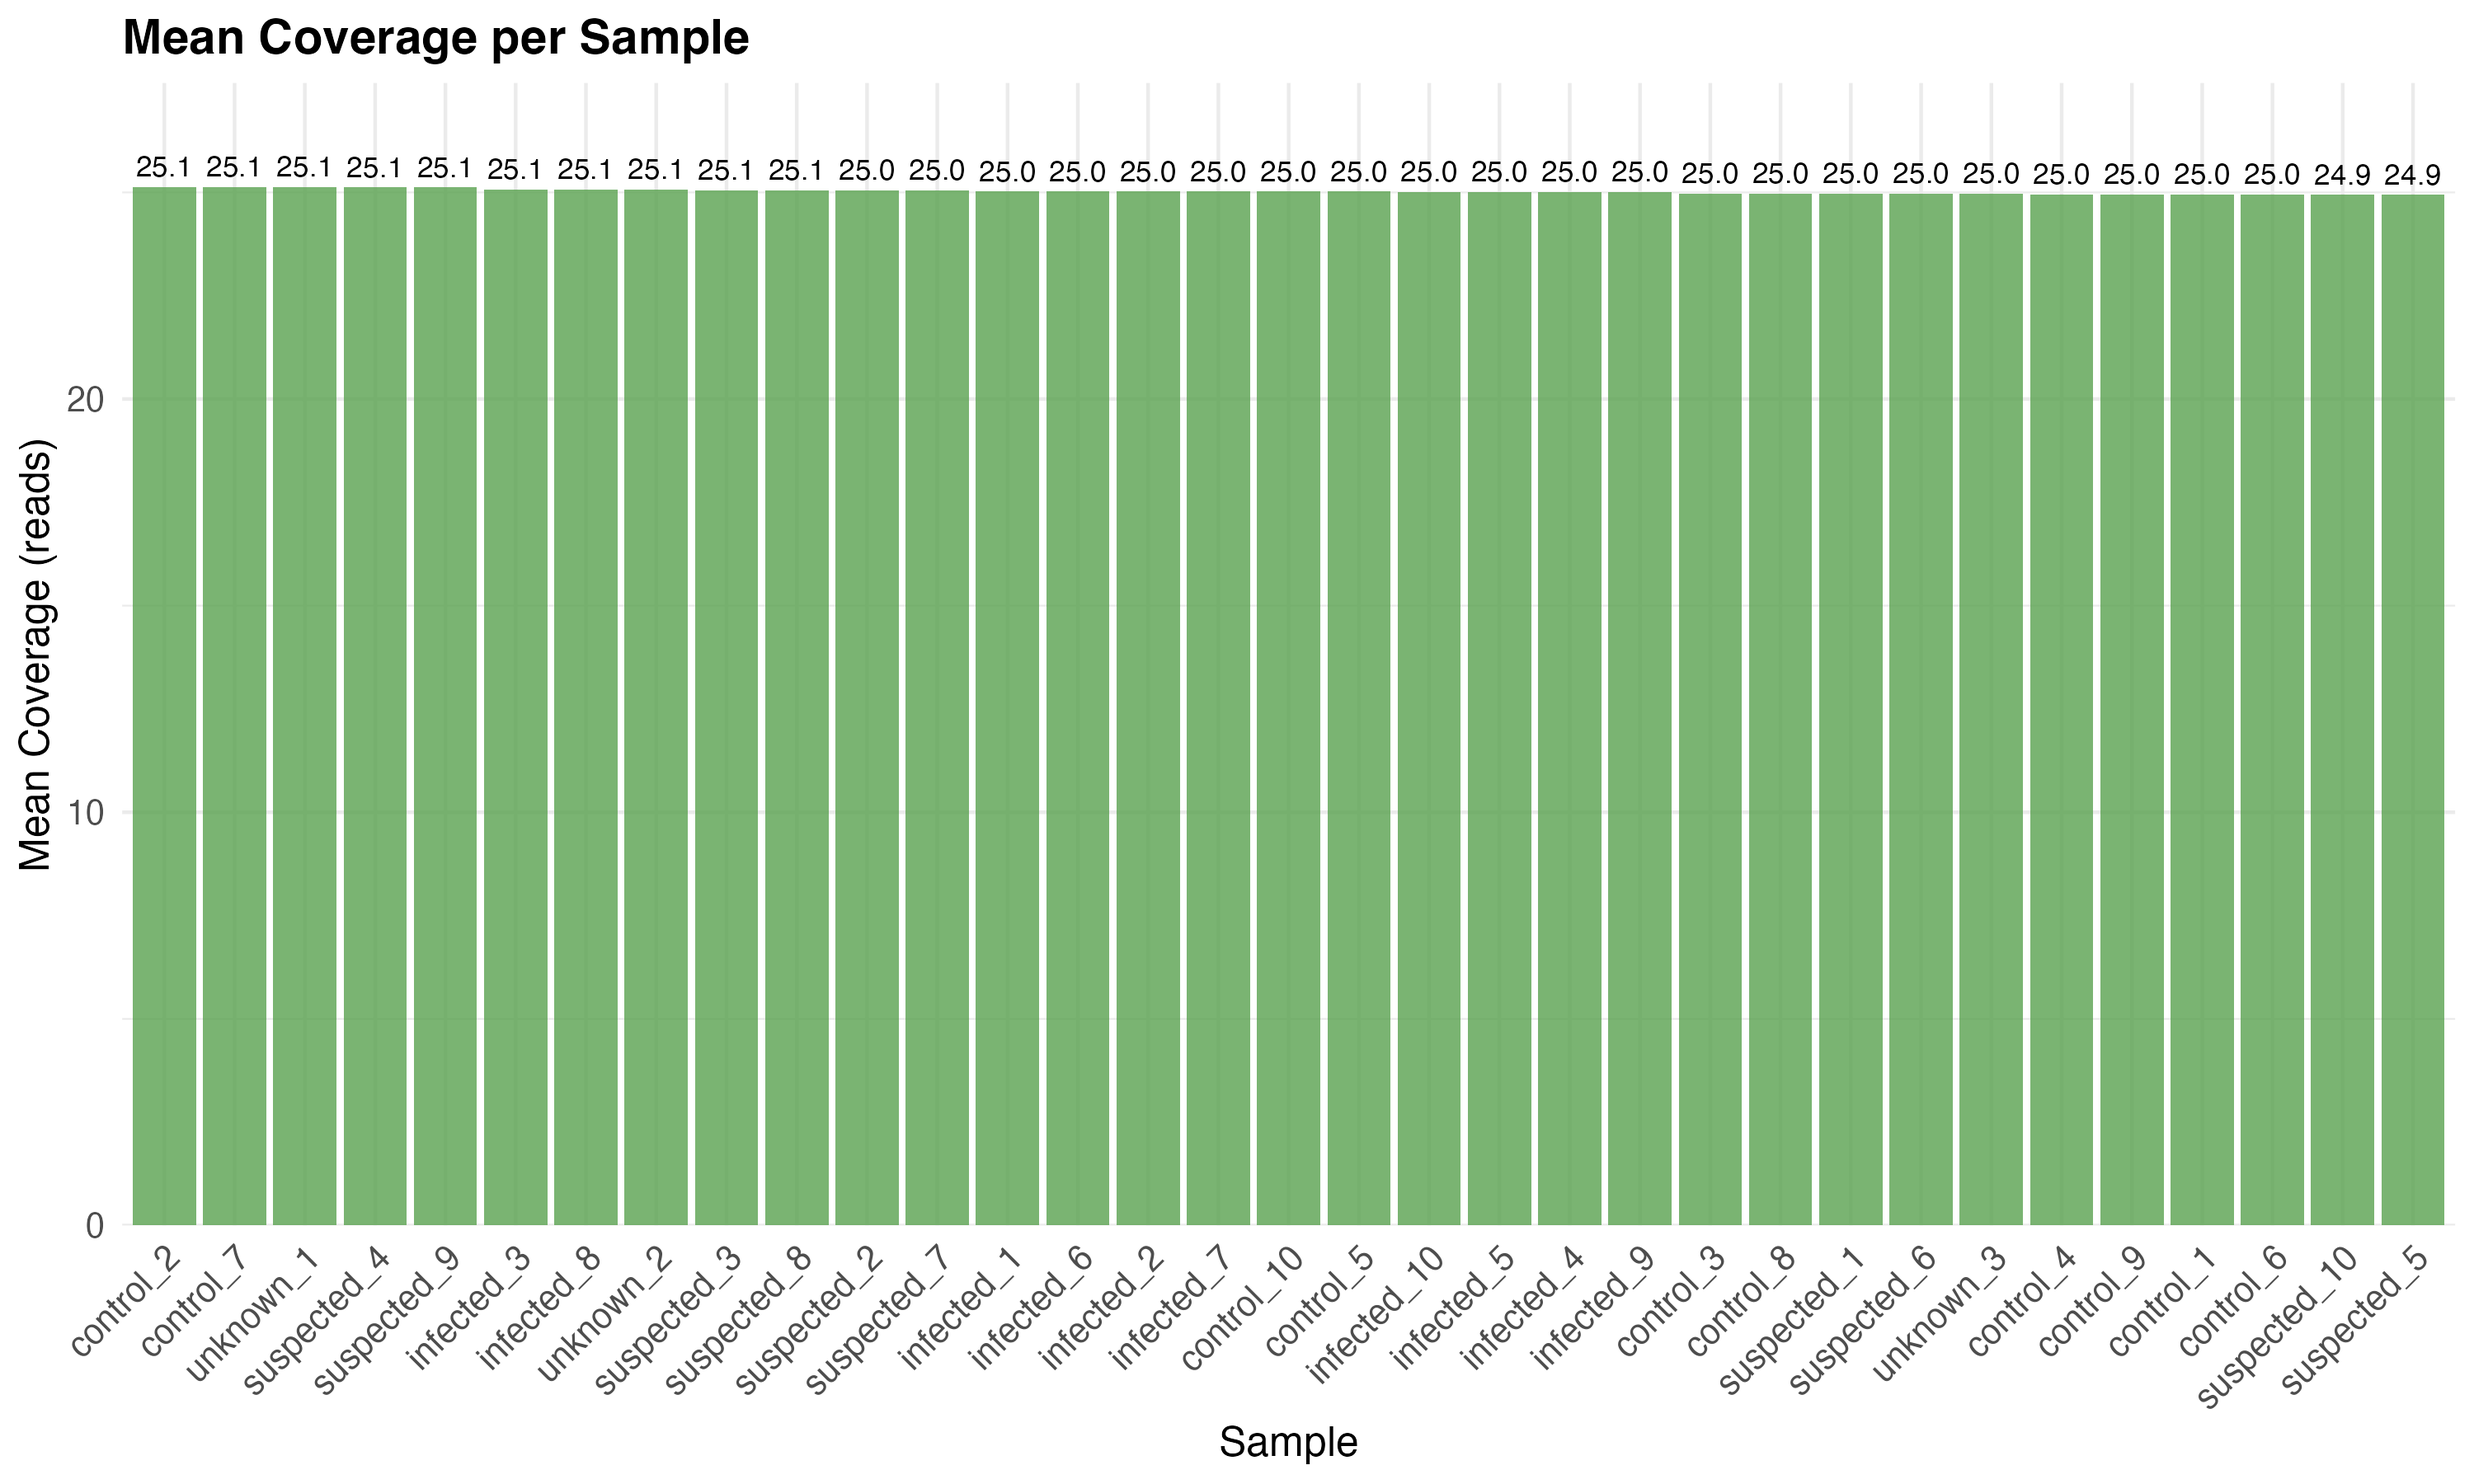
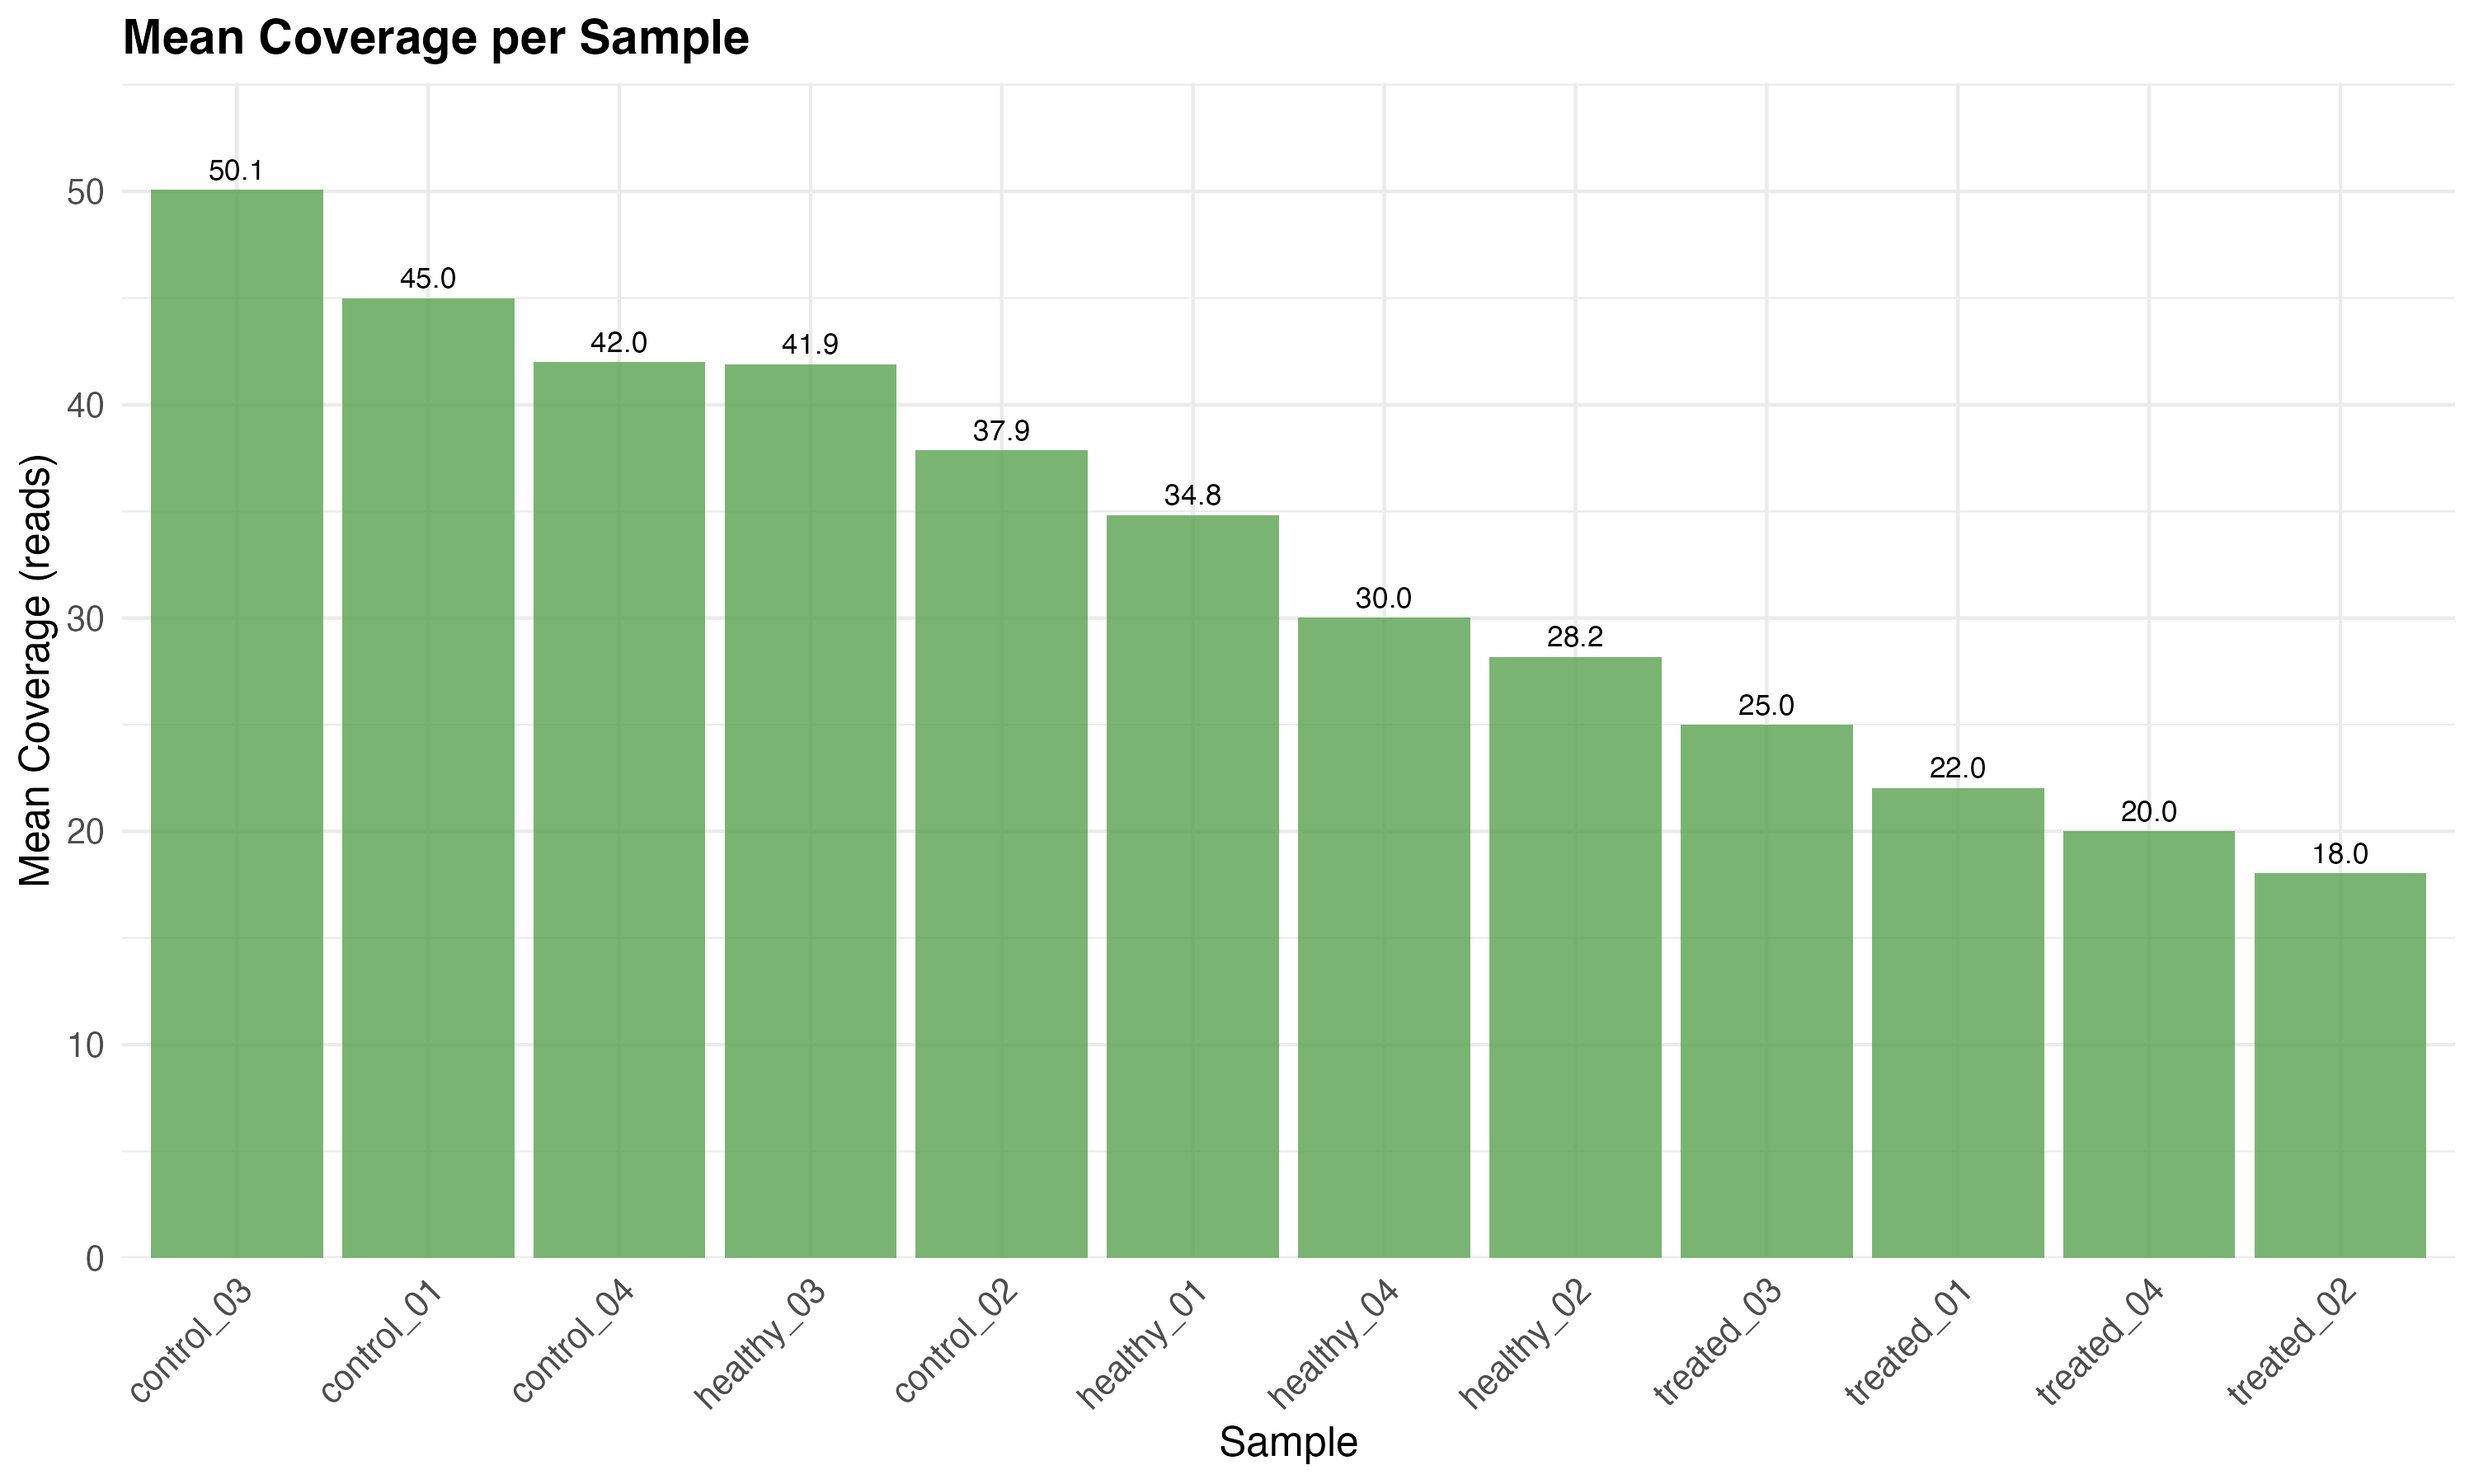
Anonymize sample names, add diverse demo data

diff --git a/README.md b/README.md
@@ -62,7 +62,7 @@ fastq_gpu_hac_mod/
 - The pipeline looks for `pass/` subdirectory by default
 - Sample directories can have any name (barcode01, sample_name, etc.)
 - Barcode information is extracted from BAM file headers, not directory names
-- Output sample names are formatted as: `<input_dir_name>_b##` (e.g., `L07_HUMB_LAB_b03`)
+- Output sample names are formatted as: `<input_dir_name>_b##` (e.g., `sample_A_b01`)
 
 ## Installation
 
@@ -233,23 +233,23 @@ The reference genome should be a single FASTA file:
 
 ```
 output_dir/
-├── L07_HUMB_LAB_b03/                         # Sample directory (name_barcode)
-│   ├── L07_HUMB_LAB_b03.merged.bam           # Merged BAM with methylation tags
-│   ├── L07_HUMB_LAB_b03.merged.bam.bai
-│   ├── L07_HUMB_LAB_b03.minimap.bam          # Aligned BAM
-│   ├── L07_HUMB_LAB_b03.minimap.bam.bai
-│   ├── L07_HUMB_LAB_b03.CpG.bed              # Methylation calls
+├── sample_A_b01/                         # Sample directory (name_barcode)
+│   ├── sample_A_b01.merged.bam           # Merged BAM with methylation tags
+│   ├── sample_A_b01.merged.bam.bai
+│   ├── sample_A_b01.minimap.bam          # Aligned BAM
+│   ├── sample_A_b01.minimap.bam.bai
+│   ├── sample_A_b01.CpG.bed              # Methylation calls
 │   ├── qualimap/                              # QC reports
 │   │   ├── qualimapReport.html
 │   │   ├── genome_results.txt
 │   │   └── raw_data_qualimapReport/
 │   └── bam_list.txt                           # Processing manifest
-├── L08_HUMB_FIELD_b05/
+├── sample_B_b02/
 │   └── ...
 └── logs/
     ├── pipeline_master_log_YYYYMMDD_HHMMSS.txt
-    ├── L07_HUMB_LAB_b03.log
-    └── L08_HUMB_FIELD_b05.log
+    ├── sample_A_b01.log
+    └── sample_B_b02.log
 ```
 
 ### Output File Descriptions
@@ -315,9 +315,9 @@ output_dir/
 <tr>
 <td width="50%">
 
-**Summary Overview**
+**CpG Sites per Sample**
 
-<img src="screenshots/summary_overview.png" alt="Summary Overview" style="max-width: 100%; height: auto;">
+<img src="screenshots/cpg_sites_per_sample.png" alt="CpG Sites" style="max-width: 100%; height: auto;">
 
 </td>
 <td width="50%">
